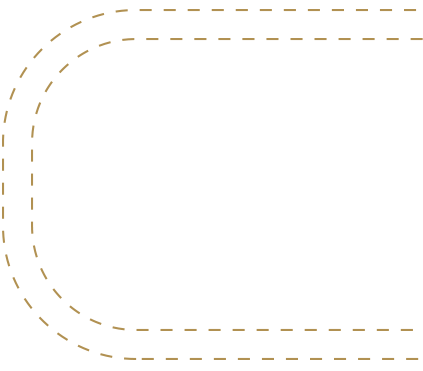
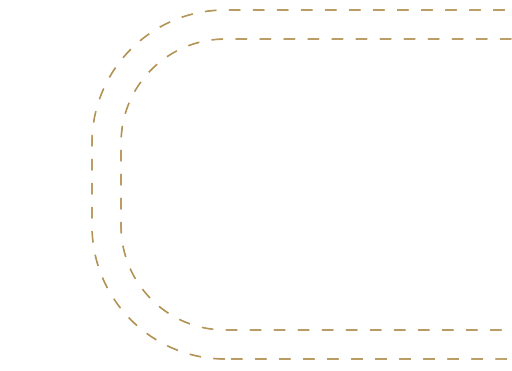
UI changes in stitching component

diff --git a/src/components/Wash.jsx b/src/components/Wash.jsx
@@ -14,11 +14,36 @@ export default class Wash extends Component {
     return (
       <>
         <p style={{ position: "absolute", margin: "15px" }}> Select Wash</p>
+        <div
+          style={{
+            width: "100%",
+            display: "flex",
 
+            color: "gray",
+            position: "absolute",
+            height: "100%",
+            alignItems: "center",
+          }}
+        >
+          <div style={{ width: "16.8vw", textAlign: "center" }}>White</div>
+          <div style={{ width: "16.8vw", textAlign: "center" }}>
+            Light Indigo
+          </div>
+          <div style={{ width: "16.8vw", textAlign: "center" }}>Mid Indigo</div>
+          <div style={{ width: "16.8vw", textAlign: "center" }}>
+            Dark Indigo
+          </div>
+          <div style={{ width: "16.8vw", textAlign: "center" }}>
+            Washed Black
+          </div>
+          <div style={{ width: "16.8vw", textAlign: "center" }}>
+            Solid Black
+          </div>
+        </div>
         <div style={{ display: "flex" }}>
           <div>
             <Row type="flex" justify="center" align="middle">
-              <img style={{ height: "100vh", width: "16.5vw" }} src={wash1} />
+              <img style={{ height: "100vh", width: "16.8vw" }} src={wash1} />
             </Row>
           </div>
 
@@ -30,7 +55,7 @@ export default class Wash extends Component {
 
           <div>
             <Row type="flex" justify="center" align="middle">
-              <img style={{ height: "100vh", width: "16.5vw" }} src={wash3} />
+              <img style={{ height: "100vh", width: "17vw" }} src={wash3} />
             </Row>
           </div>
 
@@ -40,10 +65,9 @@ export default class Wash extends Component {
             </Row>
           </div>
 
-
           <div>
             <Row type="flex" justify="center" align="middle">
-              <img style={{ height: "100vh", width: "16.5vw" }} src={wash5} />
+              <img style={{ height: "100vh", width: "16.9vw" }} src={wash5} />
             </Row>
           </div>
           <div>
@@ -51,34 +75,6 @@ export default class Wash extends Component {
               <img style={{ height: "100vh", width: "16.5vw" }} src={wash6} />
             </Row>
           </div>
-          {/* <div>
-            <Row type="flex" justify="center" align="middle">
-              <div>
-                <img src={wash2} />
-              </div>
-            </Row>
-          </div>
-          <div>
-            <Row type="flex" justify="center" align="middle">
-              <div>
-                <img src={wash3} />
-              </div>
-            </Row>
-          </div>
-          <div>
-            <Row type="flex" justify="center" align="middle">
-              <div>
-                <img src={wash4} />
-              </div>
-            </Row>
-          </div>
-          <div>
-            <Row type="flex" justify="center" align="middle">
-              <div>
-                <img src={wash5} />
-              </div>
-            </Row>
-          </div> */}
         </div>
       </>
     );

diff --git a/src/components/UserForm.jsx b/src/components/UserForm.jsx
@@ -39,7 +39,7 @@ export default class UserForm extends Component {
                     ]}
                   >
                     <Input
-                      style={{ height: "80px", borderRadius: "20px" }}
+                      style={{ height: "80px", borderRadius: "20px", color:"#515151" }}
                       size="large"
                       placeholder="First Name"
                     />
@@ -62,7 +62,7 @@ export default class UserForm extends Component {
                     ]}
                   >
                     <Input
-                      style={{ height: "80px", borderRadius: "20px" }}
+                      style={{ height: "80px", borderRadius: "20px", color:"#515151" }}
                       size="large"
                       placeholder="Last Name"
                     />
@@ -85,7 +85,7 @@ export default class UserForm extends Component {
                     ]}
                   >
                     <Input
-                      style={{ height: "80px", borderRadius: "20px" }}
+                      style={{ height: "80px", borderRadius: "20px", color:"#515151" }}
                       size="large"
                       placeholder="E-mail Address"
                     />
@@ -110,7 +110,7 @@ export default class UserForm extends Component {
                     ]}
                   >
                     <TextArea
-                      style={{ height: "120px", borderRadius: "20px", marginTop:"11px" }}
+                      style={{ height: "120px", borderRadius: "20px", marginTop:"11px", color:"#515151" }}
                       placeholder="Favorite Brands"
                     />
                   </Form.Item>
@@ -133,7 +133,7 @@ export default class UserForm extends Component {
                     ]}
                   >
                     <TextArea
-                      style={{ height: "140px", borderRadius: "20px" }}
+                      style={{ height: "140px", borderRadius: "20px",color:"green" }}
                       placeholder="Notes"
                     />
                   </Form.Item>

diff --git a/src/components/Stitching.jsx b/src/components/Stitching.jsx
@@ -2,6 +2,7 @@ import React, { Component } from "react";
 import { Button, Row, Col } from "antd";
 import stitch_tonal from "../images/stitch_tonal.png";
 import stitch_contrast from "../images/stitch_contrast.png";
+import "./styles.css";
 
 export default class Stitching extends Component {
   render() {
@@ -30,20 +31,31 @@ export default class Stitching extends Component {
               width: "100%",
             }}
           >
-            <div>
-              <span style={{ color: "white", fontSize: "20px", margin:"100px", position:"absolute" }}>Tonal</span>
+            <div className="btnImage" >
+              <span
+                style={{
+                  fontSize: "20px",
+                  margin: "140px",
+                  position: "absolute",
+                }}
+              >
+                Tonal
+              </span>
 
-              <img
-                style={{ width: "250px", height: "230px" }}
-                src={stitch_tonal}
-              />
+              <img style={{width:"350px", height:"310px"}} src={stitch_tonal} />
             </div>
-            <div>
-            <span style={{ color: "white", fontSize: "20px", margin:"100px", position:"absolute" }}>Contrast</span>
-              <img
-                style={{ width: "250px", height: "230px" }}
-                src={stitch_contrast}
-              />
+            <div className="btnImage" >
+              <span
+                style={{
+                  fontSize: "20px",
+                  margin: "140px",
+                  position: "absolute",
+                }}
+              >
+                Contrast
+              </span>
+
+              <img style={{width:"350px", height:"310px"}}  src={stitch_contrast} />
             </div>
           </Row>
         </Row>

diff --git a/src/components/FitSelection.jsx b/src/components/FitSelection.jsx
@@ -5,7 +5,7 @@ import patti_straight from "../images/patti_straight.jpg";
 import rachel_flare from "../images/rachel_flare.jpg";
 import bridget_boot from "../images/bridget_boot.jpg";
 import hepburn_wideleg from "../images/hepburn_wideleg.jpg";
-
+import "./styles.css"
 export default class FitSelection extends Component {
   render() {
     return (
@@ -32,7 +32,7 @@ export default class FitSelection extends Component {
                 margin: "2px",
               }}
             >
-              <Button style={{ borderRadius: "12px" }}>Mara Straight</Button>
+              <Button className="ant-btn" style={{ borderRadius: "12px" }}>Mara Straight</Button>
 
               <div>
                 <img

diff --git a/src/components/InseameSelection.jsx b/src/components/InseameSelection.jsx
@@ -1,5 +1,6 @@
 import React, { Component } from "react";
 import { Select } from "antd";
+import "./styles.css";
 const { Option } = Select;
 
 function onChange(value) {
@@ -30,9 +31,11 @@ export default class InseameSelection extends Component {
             alignItems: "center",
             flexDirection: "column",
             height: "90%",
+            borderRadius:"20px"
           }}
         >
           <Select
+            className="inseamBox"
             onFocus={(e) => e.stopPropagation()}
             size="large"
             showSearch

diff --git a/src/components/styles.css b/src/components/styles.css
@@ -1,7 +1,23 @@
 .ant-input:placeholder-shown {
-  background-color:inherit;
- 
+  background-color: inherit;
 }
 .ant-table {
   background: inherit !important;
 }
+.inseamBox {
+  border-radius: 70px;
+  background-color: lawngreen;
+}
+
+.ant-select-selection-selected-value {
+  border-radius: 121px;
+}
+
+
+
+.btnImage:hover {
+  cursor: pointer;
+  background-color: #b3b3b3;
+  color: white;
+}
+

diff --git a/src/components/Title.jsx b/src/components/Title.jsx
@@ -10,7 +10,7 @@ export default class Title extends Component {
         align="middle"
         style={{ minHeight: "100vh" }}
       >
-        <h1 style={{fontFamily:"Poppins", margin:"10px"}}>
+        <h1 style={{ margin:"10px", color:"gray"}}>
           Making your dream jeans using recycled fibers, energy, and water.
         </h1>
       </Row>

diff --git a/src/index.css b/src/index.css
@@ -7,5 +7,5 @@ body {
 }
 
 code {
-  font-family: 'Poppins', sans-serif;
+  font-family: "Poppins", sans-serif;
 }

diff --git a/src/components/form.css b/src/components/form.css
@@ -1,0 +1,3 @@
+.ant-select-selection__placeholder{
+    color : blue;
+  }
